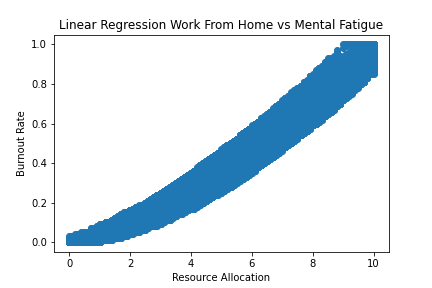
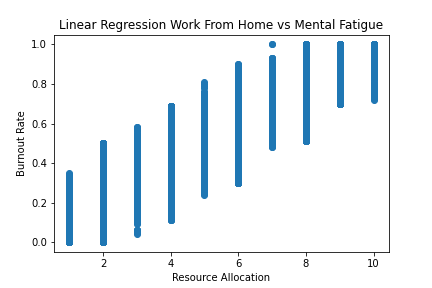
Updated README

diff --git a/README.md b/README.md
@@ -14,26 +14,26 @@ It's no secret that in the United States of America, you must work in some way t
 Using this data, we were able to understand the contributing factors to employee burnout.
 
 ## Analysis
-### Gender Count:
+#### Gender Count:
 ![Screenshot](sharice/GenCoun.png)
 
-### Work From Home:
+#### Work From Home:
 ![Screenshot](sharice/WFH.png)
 
-### Company Type:
+#### Company Type:
 ![Screenshot](sharice/comp.png)
 
-### Mental Fatigue:
+#### Mental Fatigue:
 ![Screenshot](sharice/Mental.png)
 
-### Burn Rate:
+#### Burn Rate:
 ![Screenshot](sharice/Burn.png)
 
-### Linear Regression: Mental Fatigue Score vs Resource Allocation
-![Screenshot](sharice/Linear_ResvsMent.png)
+#### Linear Regression: Mental Fatigue Score vs Resource Allocation
+![Screenshot](Resources/Linear_ResvsMent1.png)
 
-### Linear Regression: Burn Rate vs Mental Fatigue Score
+#### Linear Regression: Burn Rate vs Mental Fatigue Score
 ![Screenshot](samori/Lin_Reg_Burn_v_Fatigue.png)
 
-### Linear Regreesion: Burn Rate vs Resource Allocation
+#### Linear Regreesion: Burn Rate vs Resource Allocation
 ![Screenshot](samori/Lin_Reg_Burn_v_Resource.png)
